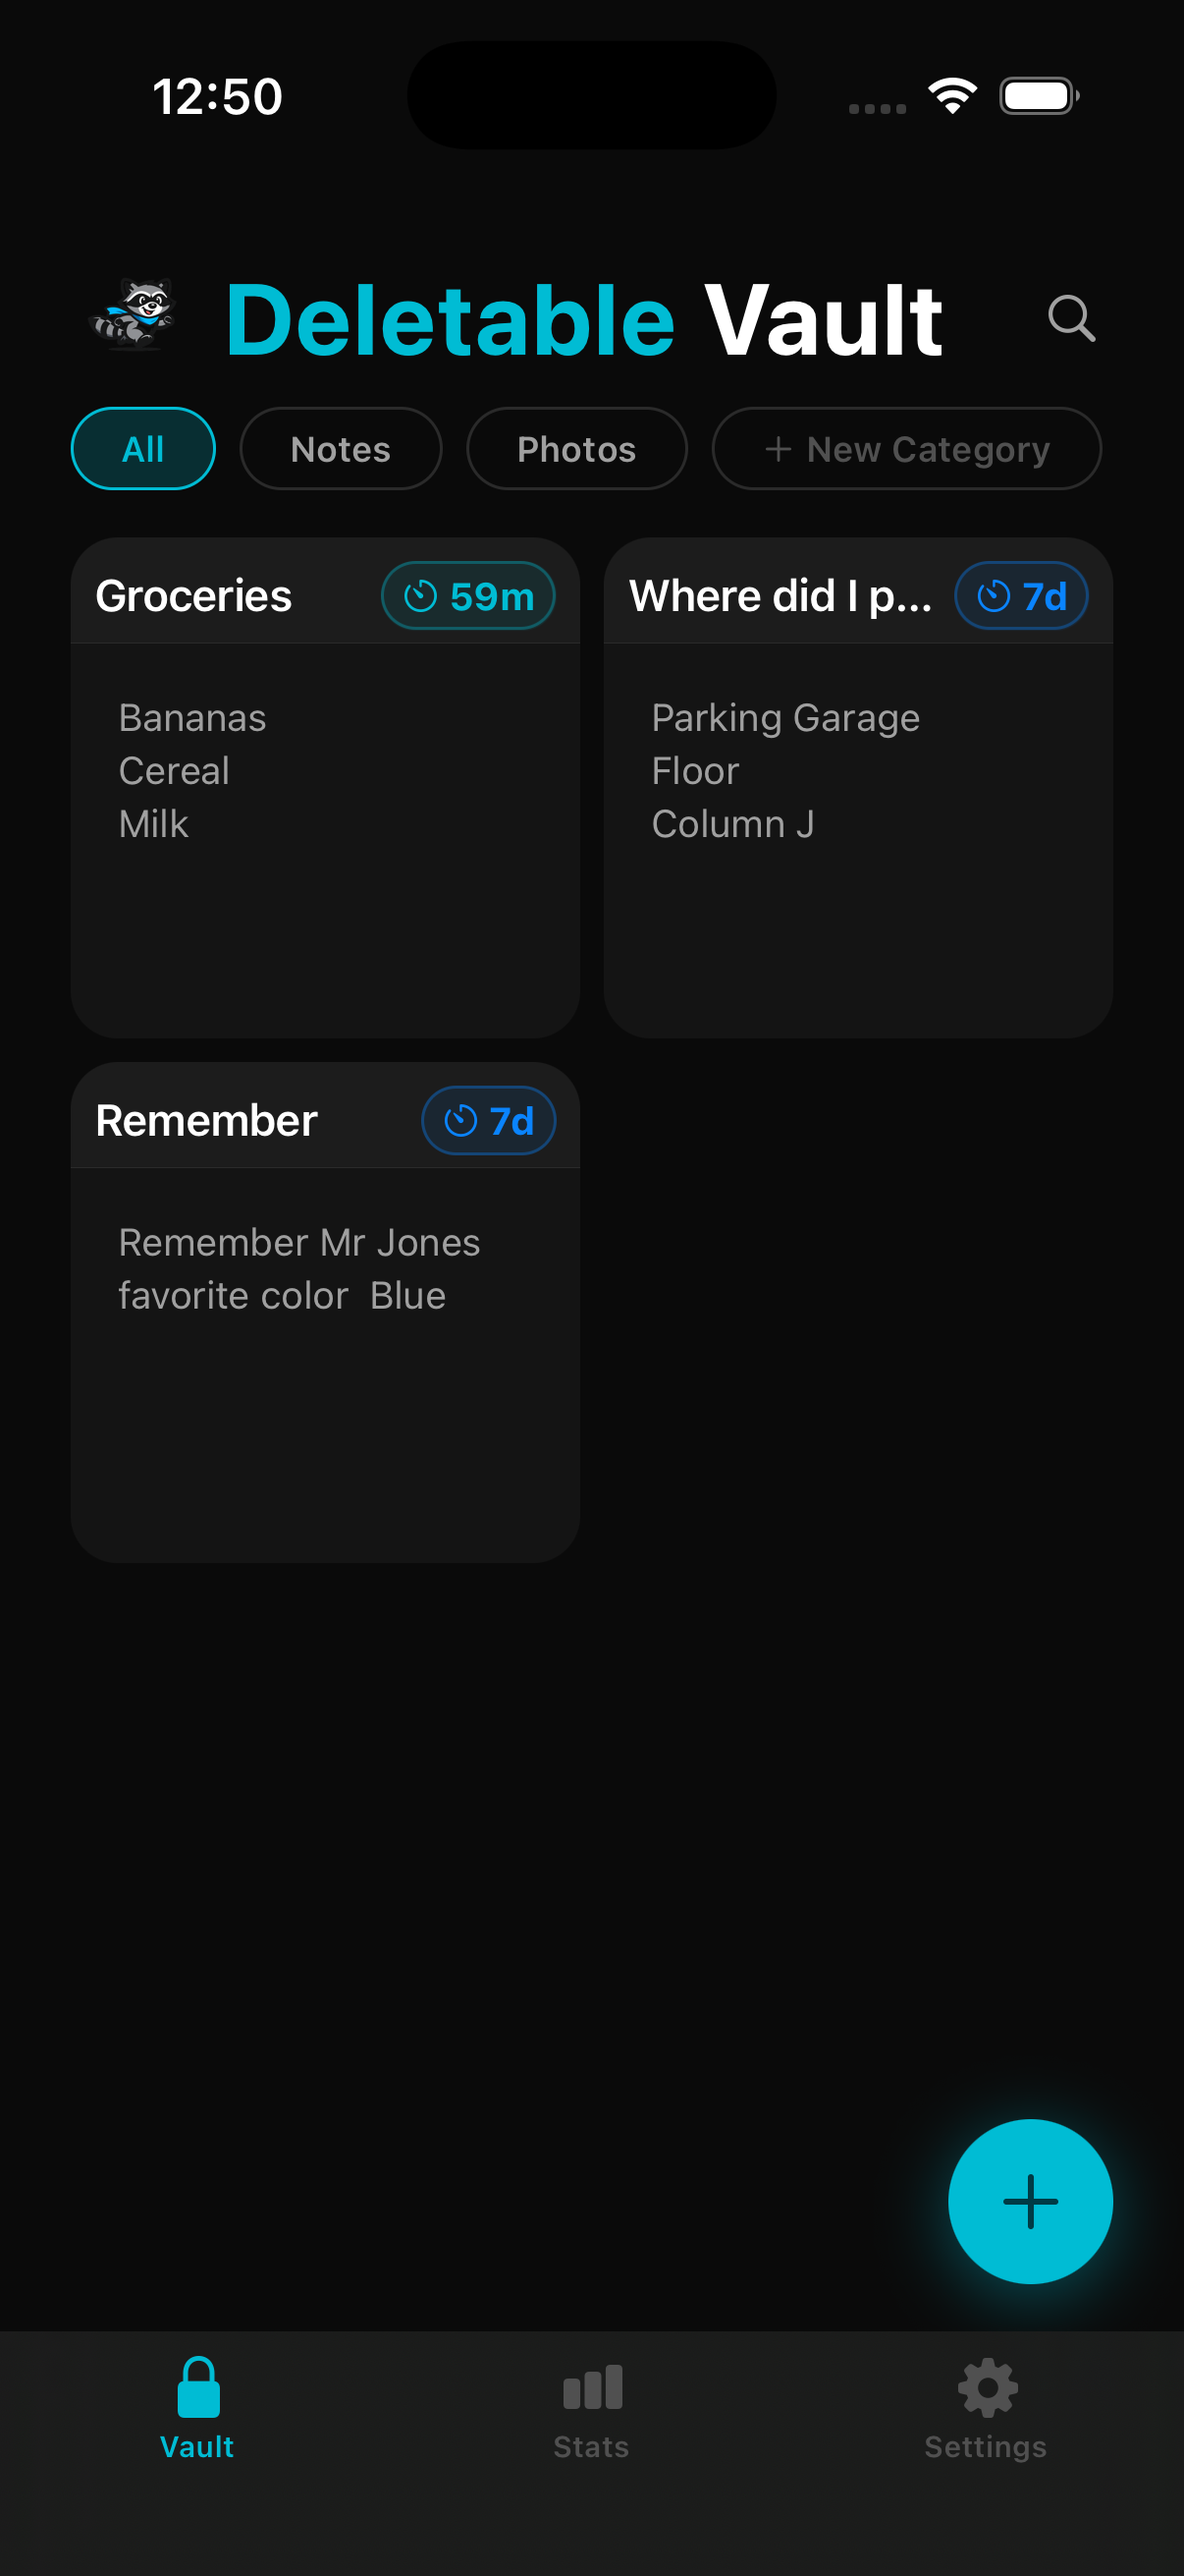
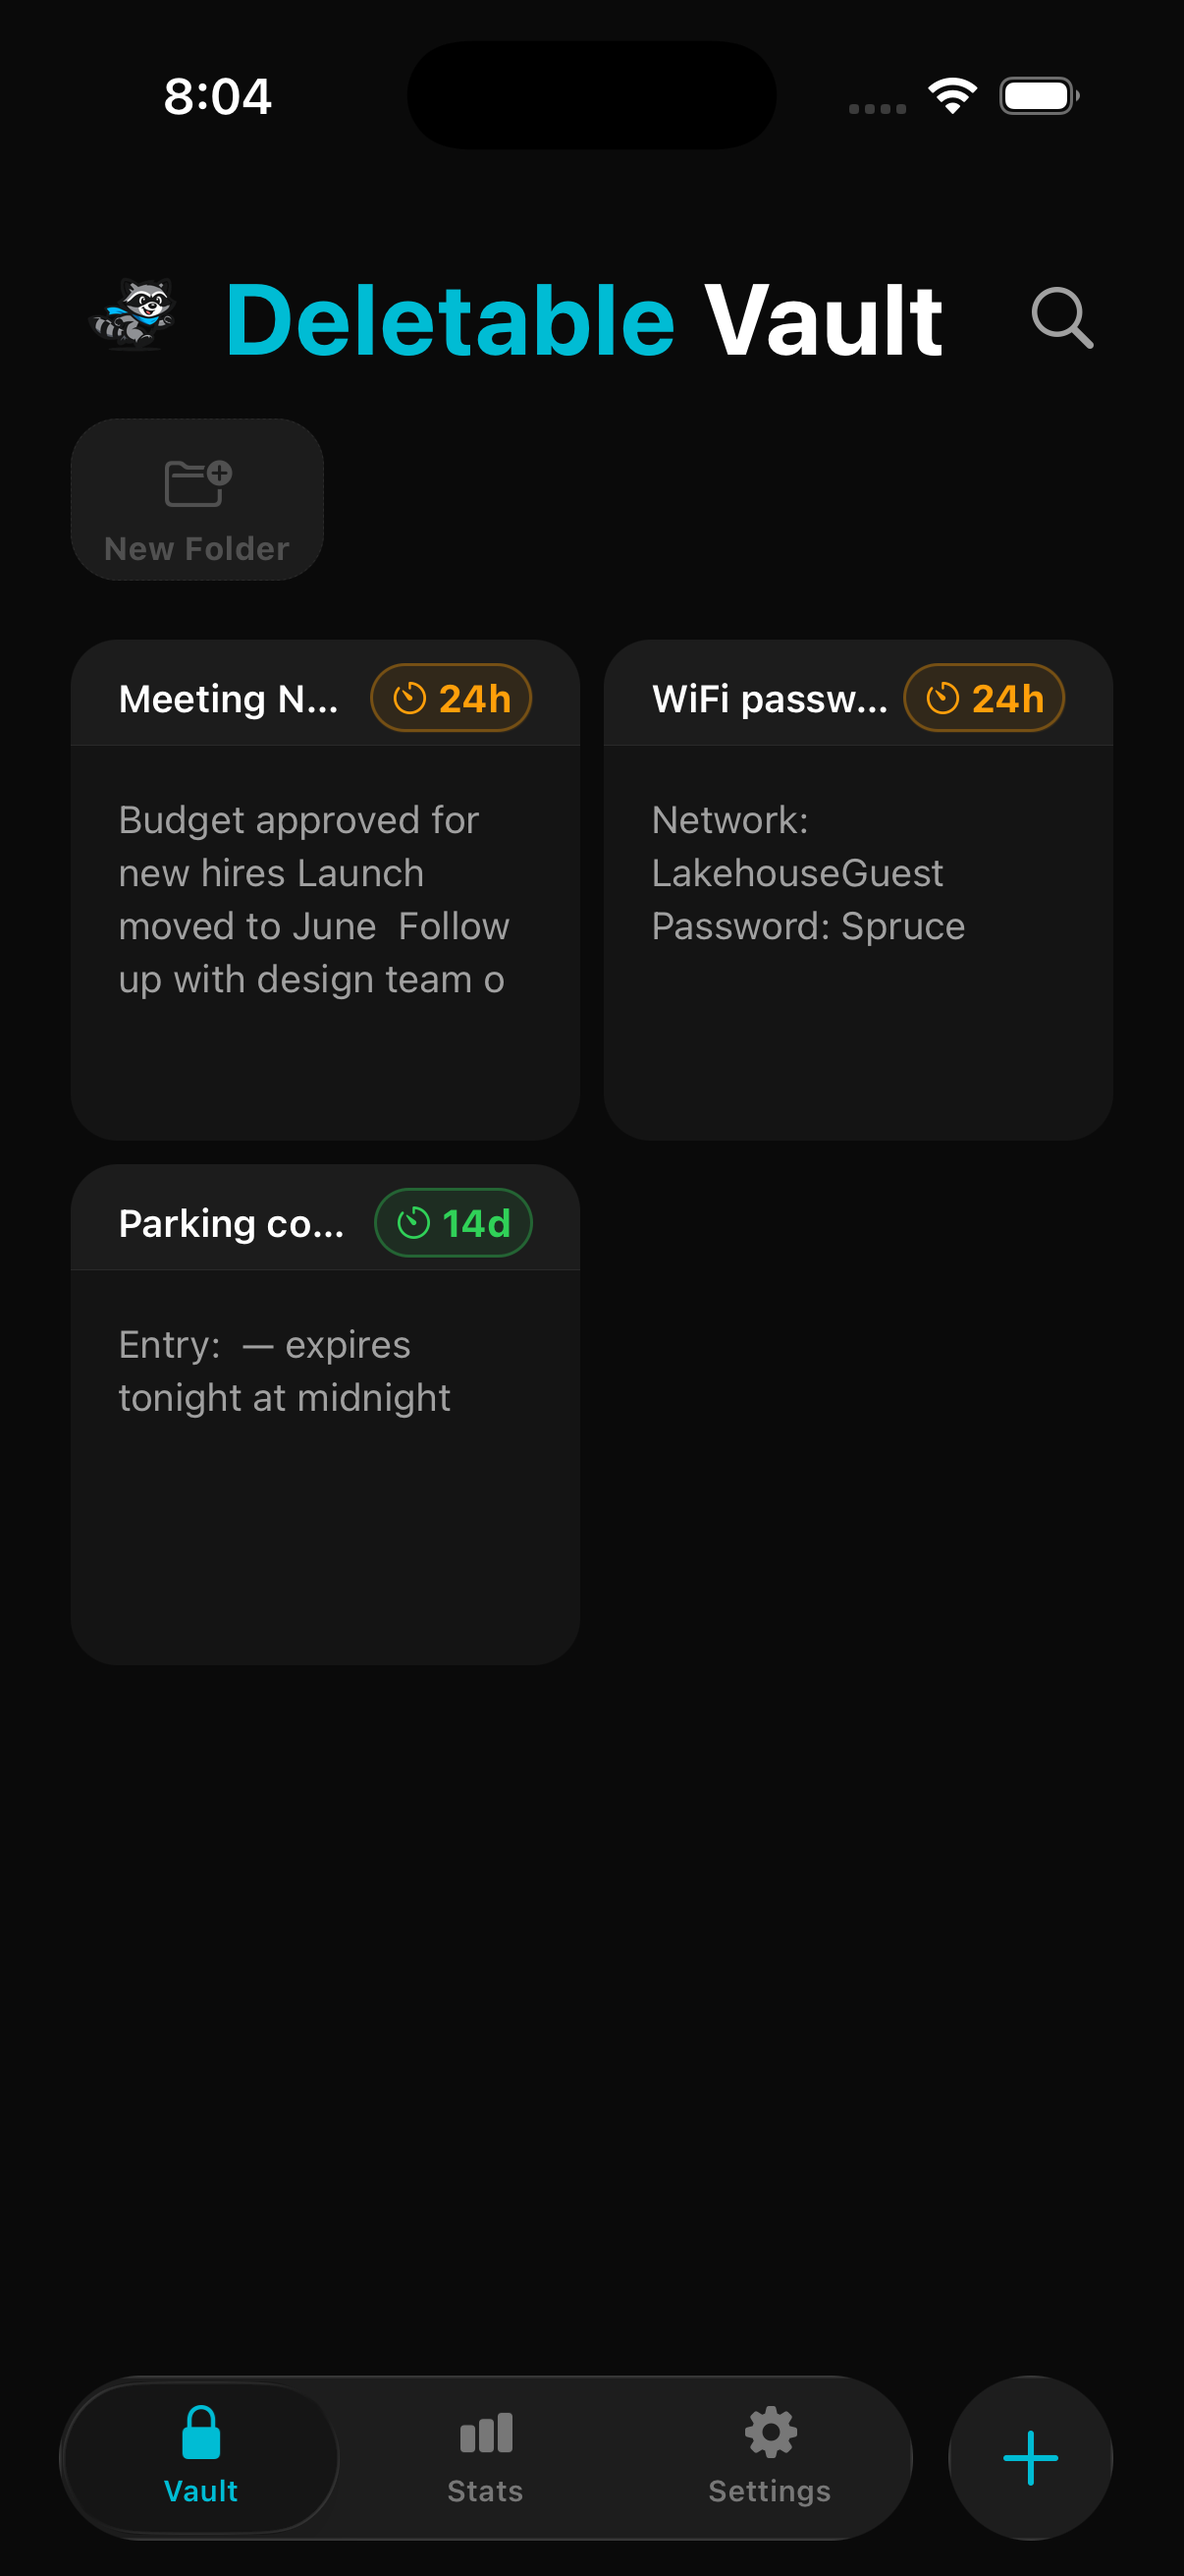
feat: update FAQ for new features and refresh simulator screenshots
- Update FAQ: folders (renamed from categories), passcode lock option,
  share extension (Safari URLs + Photos), app switcher privacy shield,
  redacted notification content
- Replace vault-screenshot.png with updated UI showing Liquid Glass tab
  bar, animated pill, and new folder button (iPhone 17, iOS 26.5)
- Add stats-screenshot.png showing Trash Stats with tier progress

diff --git a/app/help/page.tsx b/app/help/page.tsx
@@ -24,8 +24,8 @@ const faqs = [
         a: 'Yes. Open the item and tap the timer badge at the top of the card to edit the expiry time.',
       },
       {
-        q: 'How do I set up Face ID?',
-        a: 'Go to Settings → Security → Lock App and toggle it on. Deletable will use Face ID (or Touch ID on supported devices) with your device passcode as a fallback.',
+        q: 'How do I set up Face ID or a passcode lock?',
+        a: 'Go to Settings → Security → Lock App and toggle it on. By default Deletable uses Face ID (or Touch ID on supported devices). To use a 4-digit PIN instead, tap Lock Method and select Passcode. Both options lock the app on the same screen.',
       },
     ],
   },
@@ -62,6 +62,10 @@ const faqs = [
         a: 'We collect fully anonymous stats: total items deleted, bytes freed, current tier, and vault sizes. These are linked to a random device UUID generated at first launch — not your name, Apple ID, or any identifying information. See our Privacy Policy for full details.',
       },
       {
+        q: 'Does Deletable hide my content in the app switcher?',
+        a: 'Yes. When you switch apps, Deletable shows a privacy overlay with just the app logo instead of your vault contents. Expiry notifications are also redacted — the alert reads "A note or photo deletes in X" rather than showing your item title on the lock screen.',
+      },
+      {
         q: 'What happens to my data if I delete the app?',
         a: 'All vault content is stored locally and will be removed with the app. The anonymous UUID stored in Supabase will become orphaned but contains no data that can identify you.',
       },
@@ -75,8 +79,8 @@ const faqs = [
     section: 'Features',
     questions: [
       {
-        q: 'How do categories work?',
-        a: 'Categories let you group items with a custom name, color, and icon. You can also set a default deletion time per category, so new items added to that category automatically use that timer.',
+        q: 'How do folders work?',
+        a: 'Folders let you group items with a custom name, color, and icon. You can also set a default deletion time per folder, so new items added to that folder automatically use that timer. Tap the folder icon when creating or editing an item to assign it.',
       },
       {
         q: 'What is location context?',
@@ -89,6 +93,10 @@ const faqs = [
       {
         q: 'How do I share my stats?',
         a: 'Go to the Stats tab and tap the Share button at the top right. Deletable generates a styled PNG image showing your tier, items deleted, bytes freed, and more — ready to share anywhere.',
+      },
+      {
+        q: 'Can I save content from Safari or Photos into Deletable?',
+        a: 'Yes. Deletable includes a Share Extension. In Safari, tap the Share button and choose Deletable to save a URL as an encrypted note with a deletion timer. In the Photos app, select a photo, tap Share, and choose Deletable to add it directly to your vault.',
       },
       {
         q: 'Can I add a note or photo directly from my home screen?',
